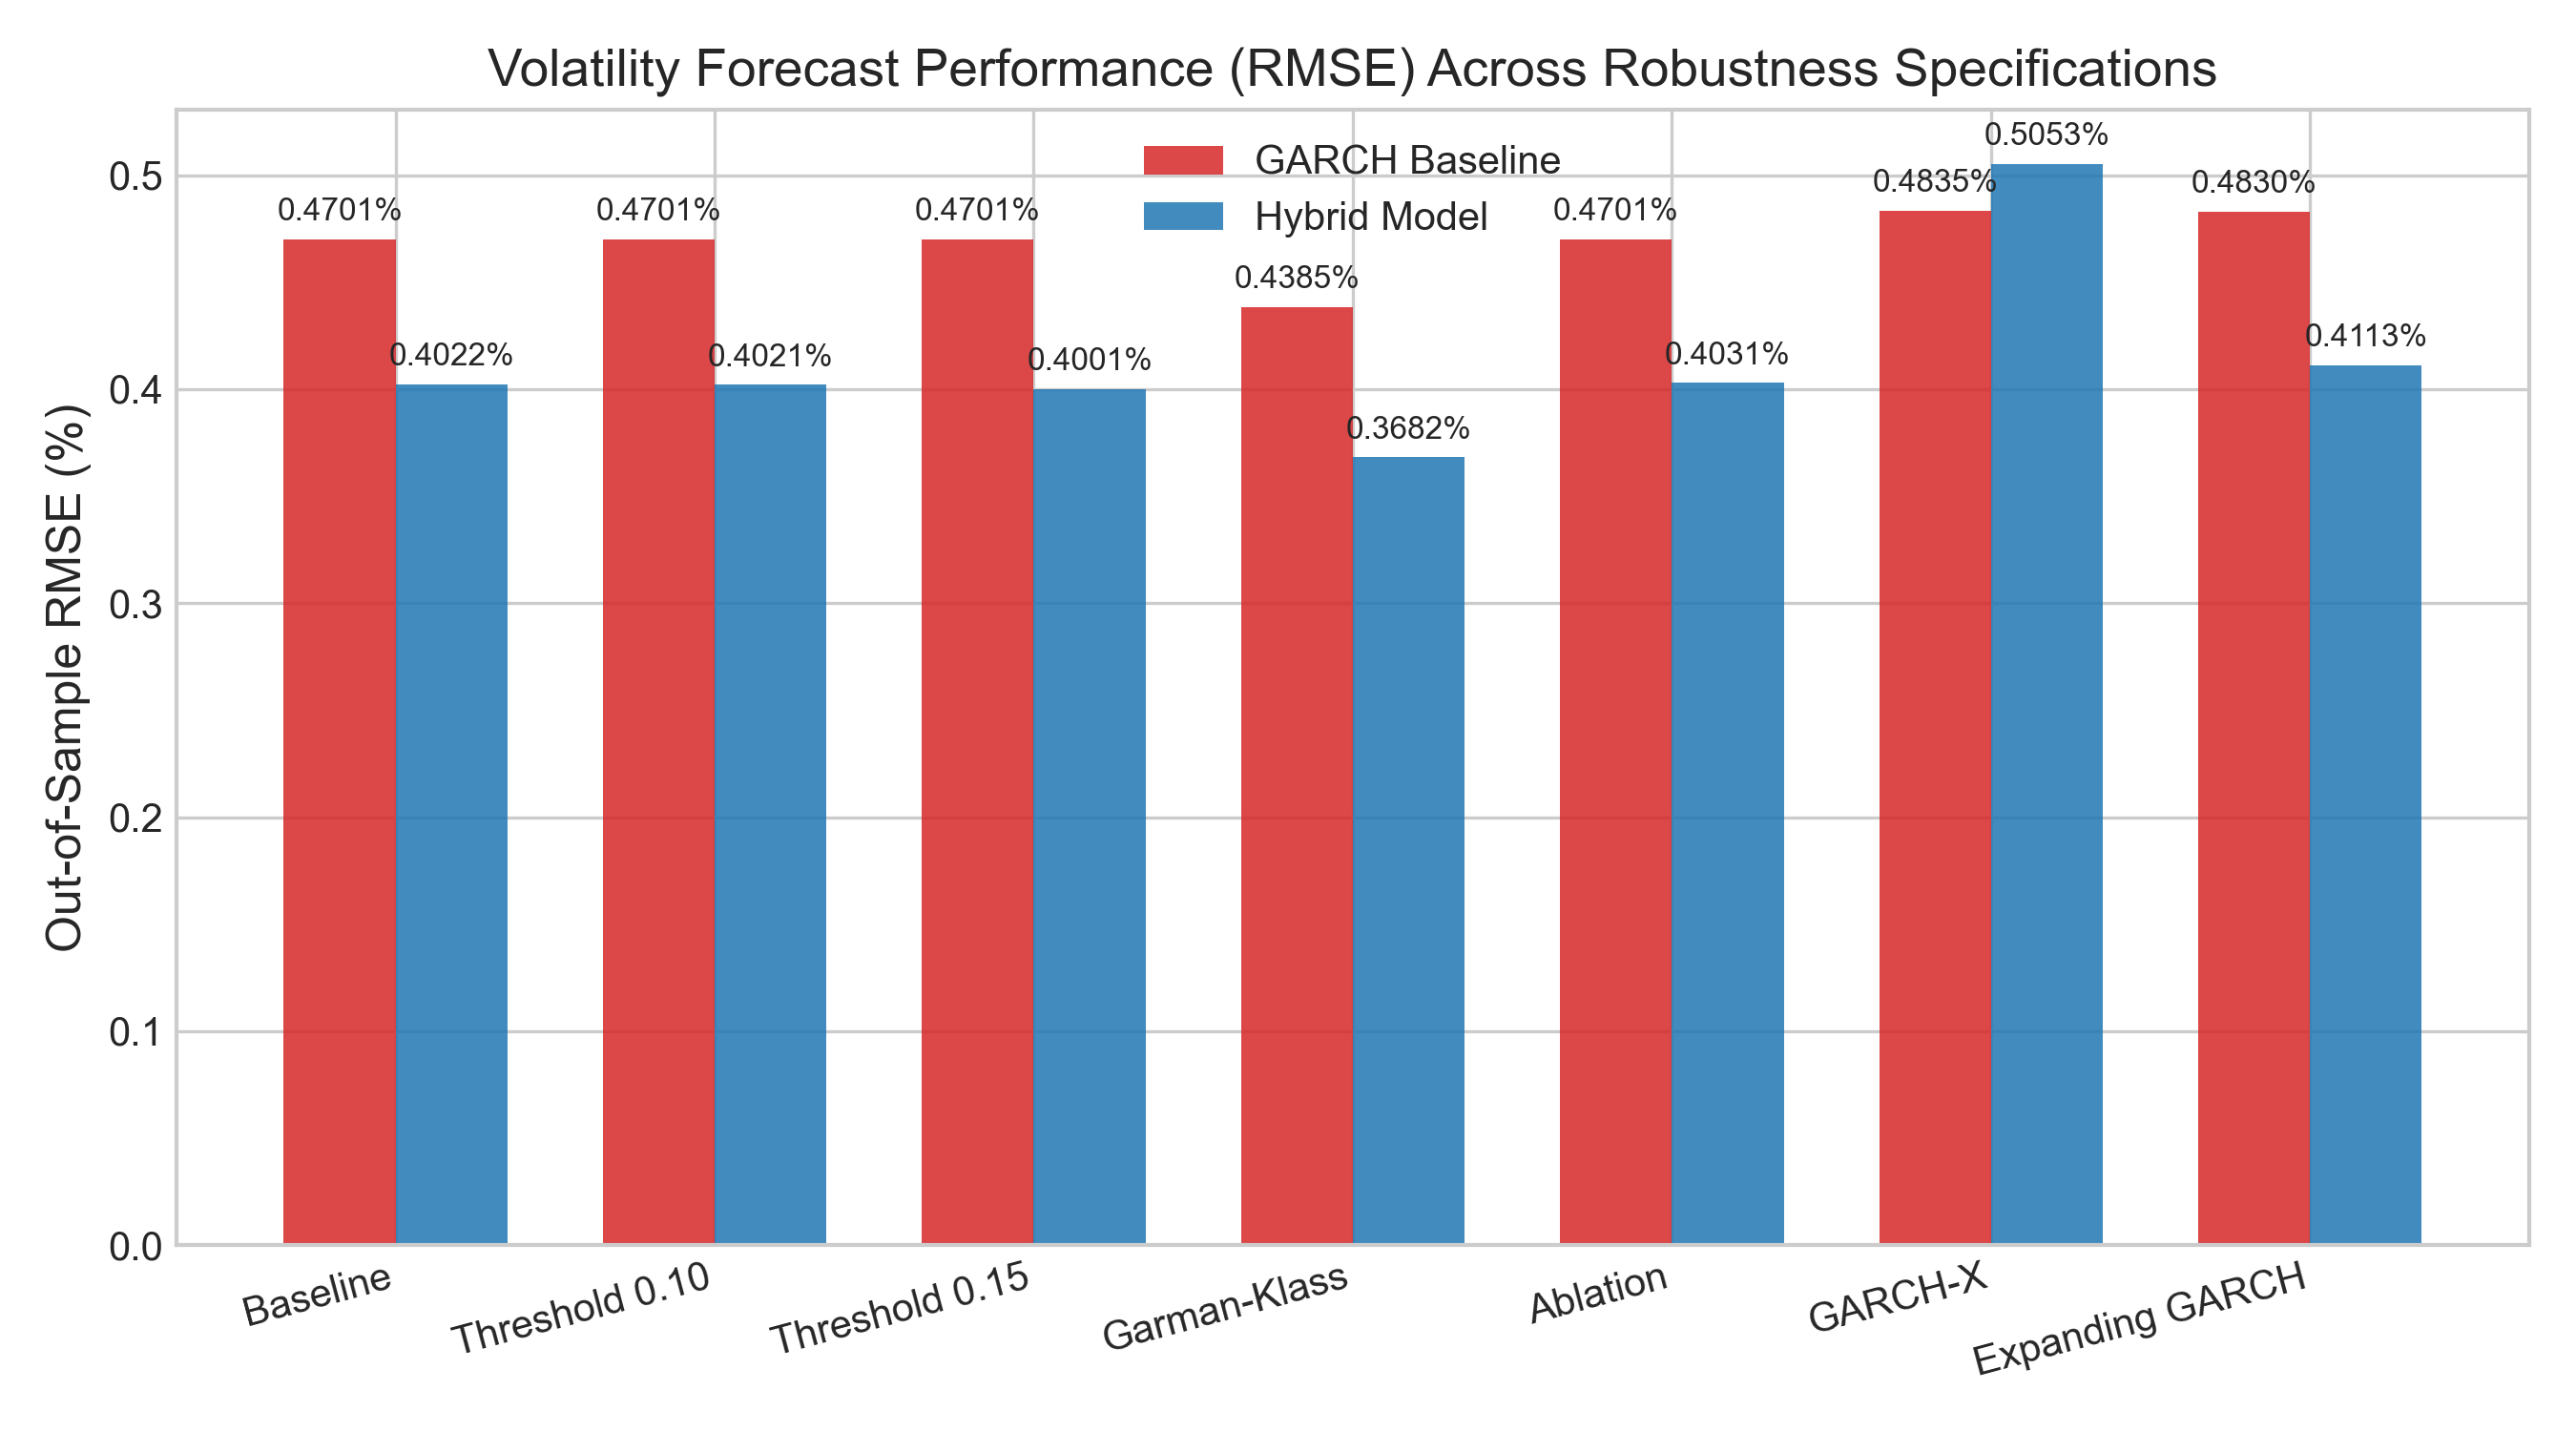
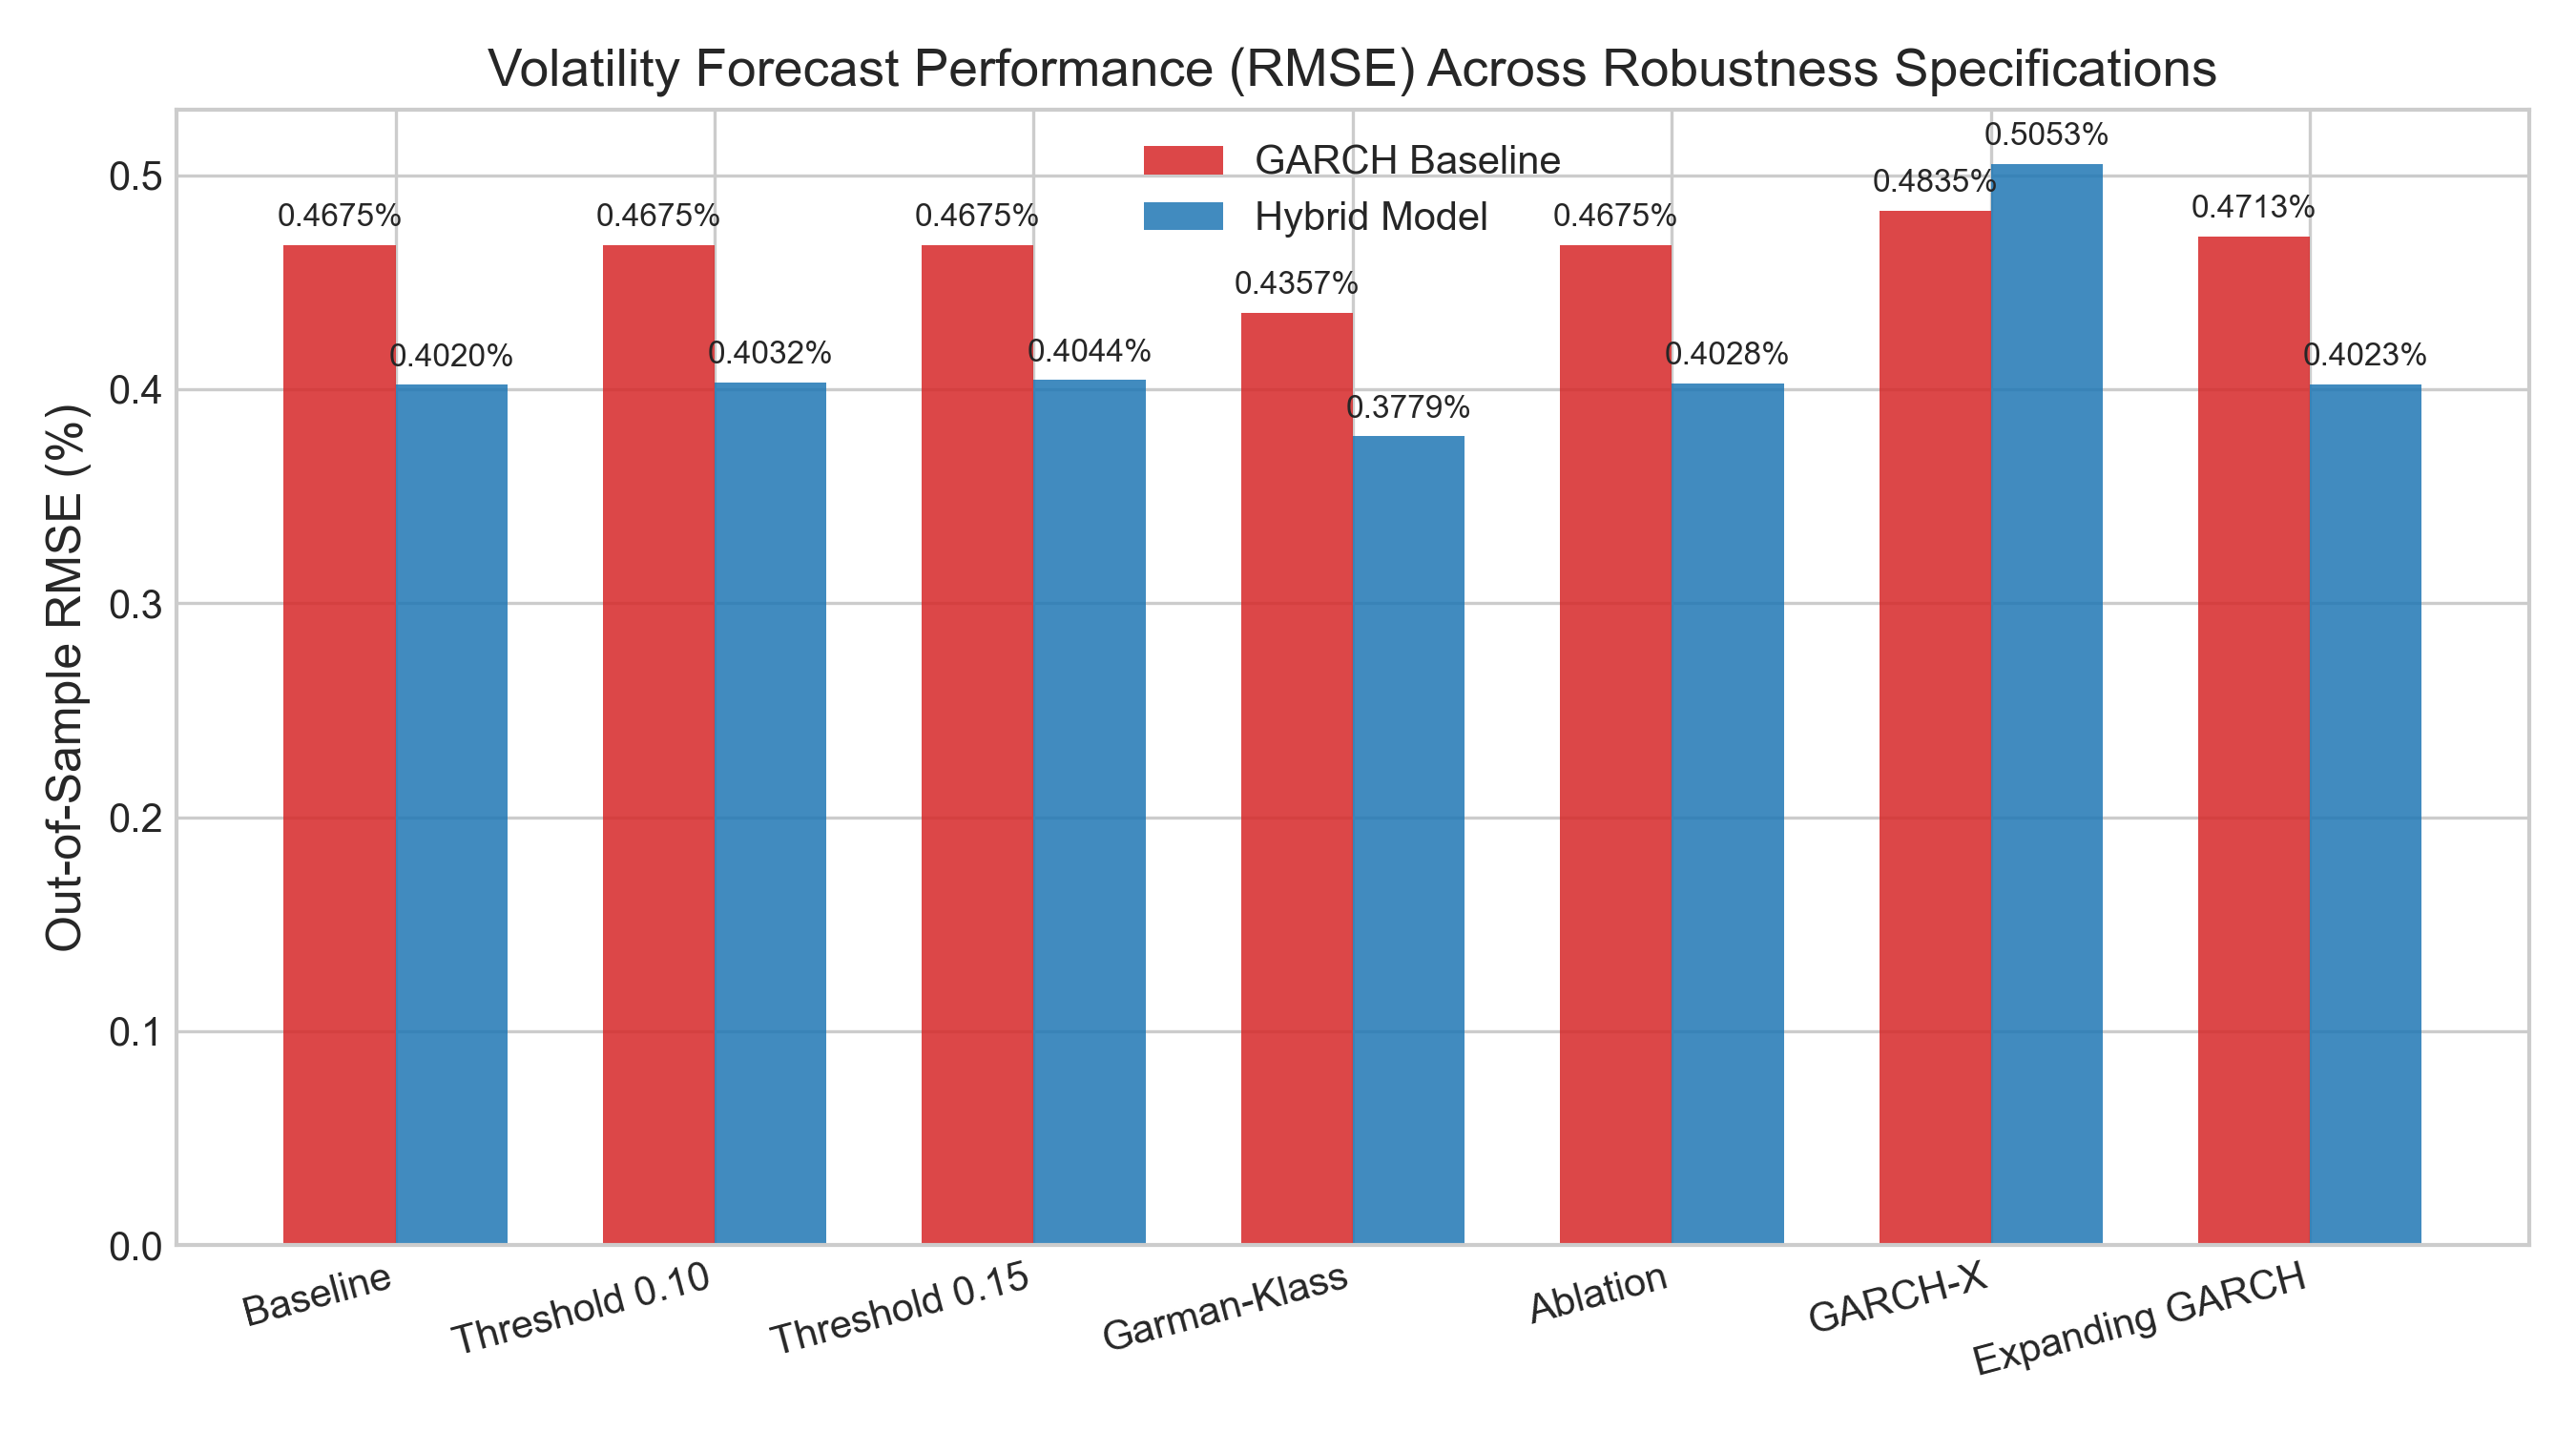
chore: optimize the code by removing unnecessary modules; revise the data processing logic

diff --git a/src/modeling/hybrid.py b/src/modeling/hybrid.py
@@ -175,7 +175,7 @@ def fit_expanding_garch(
     reestimate_freq: int = 21,
     scale: float = 100.0,
 ) -> tuple[np.ndarray, np.ndarray, np.ndarray]:
-    """Perform expanding-window GARCH(1,1) volatility forecasting.
+    """Perform expanding-window GARCH(1,1) volatility forecasting without look-ahead leakage.
 
     Re-estimates parameters omega, alpha, beta every reestimate_freq steps.
     """
@@ -193,13 +193,10 @@ def fit_expanding_garch(
 
     sample_var = float(np.var(y[:train_len], ddof=1))
     sigma2[0] = max(sample_var, omega / max(1e-6, 1.0 - alpha - beta))
-    for idx in range(1, train_len):
-        sigma2[idx] = omega + alpha * y[idx - 1] ** 2 + beta * sigma2[idx - 1]
-        forecast[idx - 1] = sigma2[idx]
-    forecast[train_len - 1] = omega + alpha * y[train_len - 1] ** 2 + beta * sigma2[train_len - 1]
+    forecast[0] = omega + alpha * y[0] ** 2 + beta * sigma2[0]
 
-    for idx in range(train_len, n):
-        if (idx - train_len) % reestimate_freq == 0:
+    for idx in range(1, n):
+        if idx >= train_len and (idx - train_len) % reestimate_freq == 0:
             try:
                 garch_temp = fit_garch11_baseline(series.iloc[:idx], scale=scale)
                 omega = garch_temp.omega
@@ -209,15 +206,14 @@ def fit_expanding_garch(
                 pass
 
         sigma2[idx] = omega + alpha * y[idx - 1] ** 2 + beta * sigma2[idx - 1]
-        forecast[idx] = omega + alpha * y[idx] ** 2 + beta * sigma2[idx]
+        if idx < n - 1:
+            forecast[idx] = omega + alpha * y[idx] ** 2 + beta * sigma2[idx]
+        else:
+            forecast[idx] = omega + (alpha + beta) * sigma2[idx]
 
     conditional_vol = np.sqrt(sigma2) / scale
-    forecast_vol = np.empty(n)
-    forecast_vol[0] = np.sqrt(max(sample_var, omega / max(1e-6, 1.0 - alpha - beta))) / scale
-    for idx in range(1, n):
-        forecast_vol[idx] = np.sqrt(omega + alpha * y[idx - 1] ** 2 + beta * sigma2[idx - 1]) / scale
-
-    std_resid = (y / scale) / conditional_vol
+    forecast_vol = np.sqrt(forecast) / scale
+    std_resid = y / np.sqrt(sigma2)
     return conditional_vol, forecast_vol, std_resid
 
 
@@ -226,21 +222,66 @@ def add_garch_features(
     *,
     return_column: str = "log_return",
     target_column: str = "target_next_vol",
+    train_end: str | pd.Timestamp | None = None,
 ) -> pd.DataFrame:
-    """Append GARCH variance forecasts and residual targets to the model frame."""
-    garch = fit_garch11_baseline(model_df[return_column])
+    """Append GARCH variance forecasts and residual targets to the model frame.
+    
+    If train_end is specified, fits parameters omega, alpha, beta, and training
+    variance using only returns up to train_end to prevent look-ahead leakage,
+    then projects GARCH volatility forecasts and standardized residuals over
+    the entire dataset using those fitted parameters.
+    """
     df = model_df.copy()
-    fitted = pd.Series(index=df.index, dtype=float)
-    forecast = pd.Series(index=df.index, dtype=float)
-    zscore = pd.Series(index=df.index, dtype=float)
-
     valid_index = df[df[return_column].notna()].index
-    fitted.loc[valid_index] = np.sqrt(garch.conditional_variance)
-    forecast.loc[valid_index] = np.sqrt(garch.variance_forecast)
-    zscore.loc[valid_index] = garch.standardized_residuals
-
+    series = df.loc[valid_index, return_column]
+    
+    scale = 100.0
+    y = series.to_numpy(copy=True) * scale
+    
+    if train_end is not None:
+        # Identify the training subset using date comparison
+        train_mask = pd.to_datetime(df.loc[valid_index, "date"]) <= pd.Timestamp(train_end)
+        train_returns = series[train_mask]
+        
+        # Fit GARCH baseline on training return series only
+        garch_train = fit_garch11_baseline(train_returns, scale=scale)
+        omega = garch_train.omega
+        alpha = garch_train.alpha
+        beta = garch_train.beta
+        
+        # Project over the entire series using fitted parameters
+        sample_var = float(np.var(train_returns.to_numpy(copy=True) * scale, ddof=1))
+        
+        sigma2 = np.empty_like(y)
+        sigma2[0] = max(sample_var, omega / max(1e-6, 1.0 - alpha - beta))
+        for idx in range(1, len(y)):
+            sigma2[idx] = omega + alpha * y[idx - 1] ** 2 + beta * sigma2[idx - 1]
+            
+        forecast = np.empty_like(sigma2)
+        forecast[:-1] = omega + alpha * y[:-1] ** 2 + beta * sigma2[:-1]
+        forecast[-1] = omega + (alpha + beta) * sigma2[-1]
+        standardized = y / np.sqrt(sigma2)
+        
+        # Convert variance back to volatility scale
+        fitted_vol = np.sqrt(sigma2) / scale
+        forecast_vol = np.sqrt(forecast) / scale
+    else:
+        # Fallback: fit on the full sample (original behavior)
+        garch = fit_garch11_baseline(series, scale=scale)
+        fitted_vol = np.sqrt(garch.conditional_variance)
+        forecast_vol = np.sqrt(garch.variance_forecast)
+        standardized = garch.standardized_residuals
+        
+    fitted = pd.Series(index=df.index, dtype=float)
+    forecast_series = pd.Series(index=df.index, dtype=float)
+    zscore = pd.Series(index=df.index, dtype=float)
+    
+    fitted.loc[valid_index] = fitted_vol
+    forecast_series.loc[valid_index] = forecast_vol
+    zscore.loc[valid_index] = standardized
+    
     df["garch_conditional_vol"] = fitted
-    df["garch_forecast_vol"] = forecast
+    df["garch_forecast_vol"] = forecast_series
     df["garch_std_resid"] = zscore
     df["hybrid_residual_target"] = df[target_column] - df["garch_forecast_vol"]
     return df

diff --git a/tests/test_modeling_pipeline.py b/tests/test_modeling_pipeline.py
@@ -10,6 +10,7 @@ from src.modeling.hybrid import (
     validate_garch_fit,
     diebold_mariano_test,
     analyze_forecast_subperiods,
+    add_garch_features,
 )
 
 
@@ -58,6 +59,18 @@ def test_aggregate_article_sentiment_builds_daily_features():
     assert daily.loc[1, "macro_sentiment"] == 0.0
     # No market category on 2024-01-03, should be NaN (later zero-imputed in frame)
     assert pd.isna(daily.loc[1, "market_sentiment"])
+
+
+def test_aggregate_article_sentiment_daily_no_drop():
+    df = pd.DataFrame(
+        [
+            {"date": "2024-01-02", "mean_sentiment": 0.8, "sentiment_std": 0.1, "sentiment_volume": 5},
+            {"date": "2024-01-03", "mean_sentiment": -0.4, "sentiment_std": 0.2, "sentiment_volume": 10},
+        ]
+    )
+    daily = aggregate_article_sentiment(df)
+    assert "date" in daily.columns
+    assert len(daily) == 2
 
 
 def test_build_model_frame_merges_sentiment_and_news(tmp_path: Path):
@@ -140,6 +153,22 @@ def test_fit_garch11_baseline_returns_positive_variance():
     assert result.beta >= 0
     assert np.all(result.conditional_variance > 0)
     assert len(result.standardized_residuals) == len(returns)
+
+
+def test_add_garch_features_train_end():
+    dates = pd.date_range("2024-01-01", periods=100, freq="D")
+    returns = np.array([-0.01, 0.02, -0.015, 0.005, 0.011, -0.006, 0.018, -0.012] * 13, dtype=float)[:100]
+    df = pd.DataFrame({
+        "date": dates,
+        "log_return": returns,
+        "target_next_vol": np.abs(returns) * 1.1,
+    })
+    
+    df_leakfree = add_garch_features(df, train_end="2024-02-15")
+    assert "garch_conditional_vol" in df_leakfree.columns
+    assert "garch_forecast_vol" in df_leakfree.columns
+    assert "garch_std_resid" in df_leakfree.columns
+    assert not df_leakfree["garch_forecast_vol"].isna().all()
 
 
 def test_build_lstm_sequences_splits_temporally():

diff --git a/src/preprocessing/pipeline.py b/src/preprocessing/pipeline.py
@@ -389,7 +389,6 @@ def export_preprocessed_outputs(
     diagnostics: dict[str, Any],
     *,
     out_dir: str | Path = "data/processed",
-    backup_path: str | Path | None = None,
 ) -> dict[str, Path]:
     """Write processed outputs and diagnostics to disk.
 
@@ -398,7 +397,6 @@ def export_preprocessed_outputs(
         daily_df: Daily DataFrame from :func:`build_preprocessed_outputs`.
         diagnostics: Diagnostics dict from :func:`build_preprocessed_outputs`.
         out_dir: Output directory (created if absent).
-        backup_path: Optional path of the raw backup file to record in diagnostics.
 
     Returns:
         Dict mapping output names to their absolute paths:
@@ -406,9 +404,6 @@ def export_preprocessed_outputs(
     """
     out = Path(out_dir)
     out.mkdir(parents=True, exist_ok=True)
-
-    if backup_path is not None:
-        diagnostics = {**diagnostics, "backup_file_path": str(Path(backup_path).resolve())}
 
     articles_path = out / "articles_clean.csv"
     daily_path = out / "daily_news_prices.csv"
@@ -465,11 +460,6 @@ def _parse_args() -> argparse.Namespace:
         default=100,
         help="Minimum article body length in characters (default: 100).",
     )
-    parser.add_argument(
-        "--backup-path",
-        default=None,
-        help="Path of the raw backup file to record in diagnostics (optional).",
-    )
     return parser.parse_args()
 
 
@@ -493,7 +483,6 @@ def main() -> None:
         daily_df,
         diagnostics,
         out_dir=args.out_dir,
-        backup_path=args.backup_path,
     )
 
     print(json.dumps({k: str(v) for k, v in paths.items()}, indent=2))

diff --git a/src/modeling/dataset.py b/src/modeling/dataset.py
@@ -55,7 +55,9 @@ def aggregate_article_sentiment(
     if not spec.is_article_level:
         daily = sentiment_df.copy()
         daily["date"] = pd.to_datetime(daily[spec.date_column])
-        return daily.drop(columns=[spec.date_column], errors="ignore").sort_values("date")
+        if spec.date_column != "date":
+            daily = daily.drop(columns=[spec.date_column], errors="ignore")
+        return daily.sort_values("date")
 
     df = sentiment_df.copy()
     df["date"] = pd.to_datetime(df[spec.date_column])
@@ -240,7 +242,10 @@ def build_model_frame(
             articles_clean_df = pd.read_csv(articles_clean_path)
         else:
             # Fall back to default location relative to price_path
-            default_clean_path = Path(price_path).parent / "processed" / "articles_clean.csv"
+            price_parent = Path(price_path).parent
+            default_clean_path = price_parent.parent / "processed" / "articles_clean.csv"
+            if not default_clean_path.exists():
+                default_clean_path = Path("data/processed/articles_clean.csv")
             if default_clean_path.exists():
                 articles_clean_df = pd.read_csv(default_clean_path)
                 

diff --git a/tests/test_preprocessing_pipeline.py b/tests/test_preprocessing_pipeline.py
@@ -186,15 +186,11 @@ def test_export_preprocessed_outputs_writes_correct_files(tmp_path: Path):
     )
 
     out_dir = tmp_path / "processed"
-    backup_path = tmp_path / "news_VN_cafef_backup_20240101.csv"
-    backup_path.touch()  # Simulate backup existence.
-
     paths = export_preprocessed_outputs(
         articles_df,
         daily_df,
         diagnostics,
         out_dir=out_dir,
-        backup_path=backup_path,
     )
 
     # All 3 output files must exist.
@@ -209,11 +205,10 @@ def test_export_preprocessed_outputs_writes_correct_files(tmp_path: Path):
     assert set(ARTICLES_CLEAN_COLUMNS).issubset(set(articles_reload.columns))
     assert set(DAILY_NEWS_PRICES_COLUMNS).issubset(set(daily_reload.columns))
 
-    # Diagnostics JSON should record the backup path.
+    # Diagnostics JSON should preserve the raw-data-centric contract.
     import json
     diag = json.loads(paths["diagnostics"].read_text(encoding="utf-8"))
-    assert "backup_file_path" in diag
-    assert str(backup_path.resolve()) in diag["backup_file_path"]
+    assert "raw_news_path" in diag
 
     # daily_news_prices must preserve one row per trading day.
     assert len(daily_reload) == 10

diff --git a/src/modeling/run_experiment.py b/src/modeling/run_experiment.py
@@ -60,7 +60,7 @@ def main() -> None:
         sentiment_path=args.sentiment,
         articles_clean_path=args.articles_clean,
     )
-    model_df = add_garch_features(model_df)
+    model_df = add_garch_features(model_df, train_end=args.train_end)
 
     feature_columns = [
         "garch_std_resid",
@@ -93,8 +93,9 @@ def main() -> None:
     baseline = sequences["baseline_test"]
     actual = sequences["realized_test"]
 
-    # Fit baseline GARCH directly to compute diagnostic validation
-    garch_result = fit_garch11_baseline(model_df["log_return"])
+    # Fit baseline GARCH directly on training set to compute diagnostic validation
+    train_returns = model_df[pd.to_datetime(model_df["date"]) <= pd.Timestamp(args.train_end)]["log_return"]
+    garch_result = fit_garch11_baseline(train_returns)
     garch_diagnostics = validate_garch_fit(garch_result)
 
     summary = {

diff --git a/src/modeling/run_robustness.py b/src/modeling/run_robustness.py
@@ -58,7 +58,7 @@ def run_spec(
         sentiment_threshold=sentiment_threshold,
         target_type=target_type,
     )
-    model_df = add_garch_features(model_df)
+    model_df = add_garch_features(model_df, train_end=args.train_end)
 
     # 2. Select features
     if use_sentiment_features:

diff --git a/README.md b/README.md
@@ -13,12 +13,8 @@ The implemented workflow is a two-stage hybrid design:
 
 ### Stage 0: Build the data
 
-1. **Backup** the raw CafeF CSV before any overwrite:
-   ```bash
-   python -m src.data.backup_raw
-   ```
-2. **Scrape** Vietnamese business and market news over the 2015-2024 window (CafeF only).
-3. **Preprocess** using the modular pipeline — cleans bodies, aligns to trading day (with
+1. **Scrape** Vietnamese business and market news over the 2015-2024 window (CafeF only).
+2. **Preprocess** using the modular pipeline — cleans bodies, aligns to trading day (with
    HoSE 14:45 close cutoff when `published_at` is available), aggregates daily controls,
    and merges with the full price calendar:
    ```bash
@@ -26,7 +22,7 @@ The implemented workflow is a two-stage hybrid design:
         --raw-news data/raw/news_VN_cafef.csv \
         --prices data/raw/prices_VN.csv
    ```
-4. **Export:**
+3. **Export:**
    - `data/processed/articles_clean.csv` — article-level with alignment diagnostics
    - `data/processed/daily_news_prices.csv` — daily market + news-intensity frame
    - `data/processed/preprocessing_diagnostics.json` — machine-readable provenance summary
@@ -78,7 +74,6 @@ The experiment target is next-day volatility, with the hybrid model learning:
 │   │   ├── hybrid.py               # GARCH baseline + LSTM sequence prep
 │   │   └── run_experiment.py       # Reproducible CLI runner
 │   ├── data/
-│   │   └── backup_raw.py           # Raw CSV backup before pipeline runs
 │   ├── utils/
 │   └── config.py
 ├── notebooks/
@@ -87,7 +82,6 @@ The experiment target is next-day volatility, with the hybrid model learning:
 │   ├── raw/                        # Scraped files from news and vnstock index prices
 │   │   ├── news_VN_cafef.csv       # Raw CafeF corpus (primary)
 │   │   ├── news_VN_vnstock.csv
-│   │   ├── news_VN_cafef_backup_*.csv
 │   │   ├── news_scrape_ledger.json
 │   │   └── prices_VN.csv
 │   ├── fine-tunes/                 # ViFiC text data for PhoBERT domain adaptation
@@ -114,13 +108,7 @@ pip install -r requirements.txt
 
 ## Main Commands
 
-### 1. Back up raw data (always run first)
-
-```bash
-python -m src.data.backup_raw
-```
-
-### 2. Rebuild cleaned datasets
+### 1. Rebuild cleaned datasets
 
 **Via CLI (recommended for reproducibility):**
 
@@ -142,7 +130,7 @@ quote history for `VNINDEX`:
 python -m src.data.fetch_prices_vnstock --start 2015-01-01 --end 2024-12-31
 ```
 
-### 3. Run the full CafeF scrape (background)
+### 2. Run the full CafeF scrape (background)
 
 ```bash
 nohup python -m src.ingestion.pipeline \